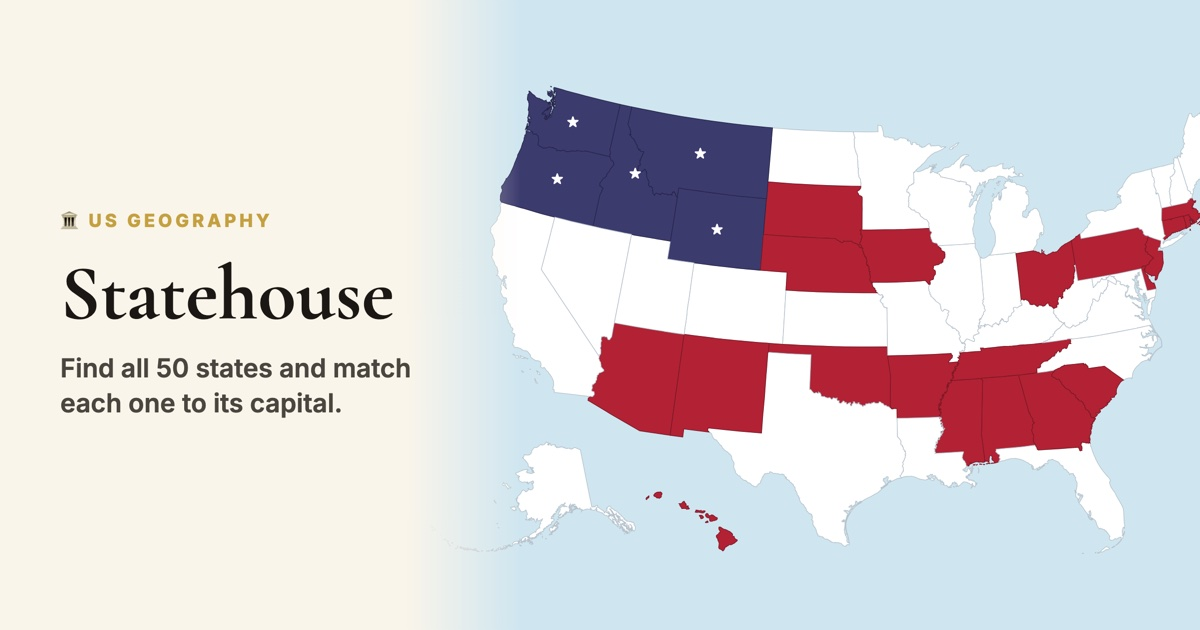
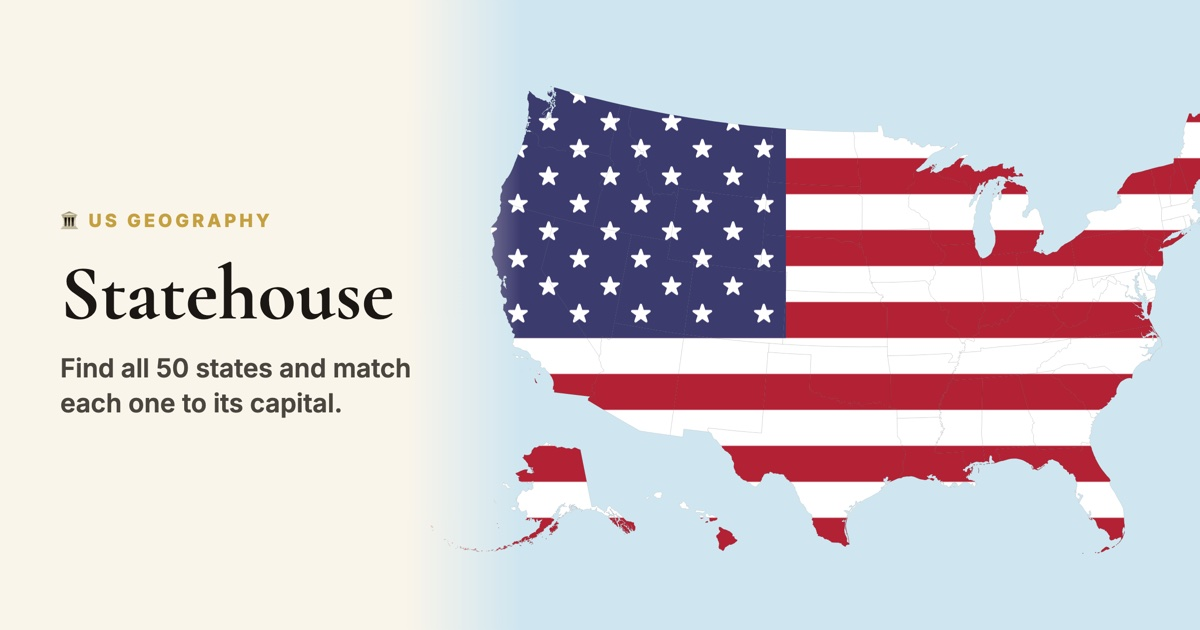
Statehouse: real US flag overlay + steady map
Replace the per-state colour blocks with an actual flag: 13 straight
stripes and a 50-star blue canton drawn once as a full-map SVG pattern.
Found states are filled with it, so each reveals its slice of the flag
and completing all 50 fills the map into the Stars and Stripes (clipped
to the US shape; AK/HI sit on the continuing lower stripes).

Also give the feedback bar a fixed height so a short or long message no
longer reflows the column and rescales the map between questions.
Refreshed the homepage tile and OG image to the real flag.

diff --git a/games/statehouse/index.html b/games/statehouse/index.html
@@ -46,7 +46,7 @@
     body.game-fit #gameScreen .map-container { flex: 1 1 auto; min-height: 0; display: flex; align-items: center; justify-content: center; }
     body.game-fit #gameScreen .map-container svg { width: auto; height: auto; max-width: 100%; max-height: 100%; }
     body.game-fit .prompt-box { margin-bottom: .5rem; }
-    body.game-fit .feedback-bar { min-height: 1.8rem; margin-bottom: .4rem; }
+    body.game-fit .feedback-bar { height: 2.7rem; margin-bottom: .4rem; }
     body.game-fit .btn-row { margin-top: .6rem; }
 
     .map-header { margin-bottom: 1rem; }
@@ -100,7 +100,11 @@
     .score-num.correct { color: var(--green); }
     .score-num.wrong { color: var(--red); }
 
-    .feedback-bar { min-height: 2.4rem; margin-bottom: 0.75rem; font-size: 1.05rem; font-weight: 600; padding: 0.3rem 0; }
+    /* Fixed height so a short or long message never reflows the column (which would
+       rescale the map between questions). Text is centered and clamped to two lines. */
+    .feedback-bar { height: 3rem; margin-bottom: 0.6rem; font-size: 1.02rem; font-weight: 600;
+      display: flex; align-items: center; justify-content: center; text-align: center; overflow: hidden; }
+    .feedback-bar span { display: -webkit-box; -webkit-line-clamp: 2; -webkit-box-orient: vertical; overflow: hidden; line-height: 1.25; }
     .feedback-correct { color: var(--green); }
     .feedback-wrong { color: var(--red); }
 
@@ -238,6 +242,7 @@ const MODE_ORDER = ['states', 'capitals'];
 
 function buildUSMap(interactive) {
   let svg = `<svg viewBox="${US.viewBox}" xmlns="http://www.w3.org/2000/svg" class="us-svg">`;
+  if (interactive) svg += flagDefs();
   for (const [id, d] of Object.entries(US.paths)) {
     svg += interactive
       ? `<path id="${id}" class="state" d="${d}"></path>`
@@ -258,42 +263,50 @@ let waitingForNext = false, advanceTimer = null, modeJustFinished = false;
 // mapscore: more correct wins, ties broken by fewer wrong (see streak-rail unit).
 function encodeScore(correct, wrong) { return correct * 1000 + (999 - Math.min(wrong, 999)); }
 
-// ---- found-state colours: paint each found state so a completed 50-state map
-// reads like the US flag - a blue canton with stars over the top-left states, and
-// red/white stripes elsewhere, keyed off each state's rough position on the map. ----
-const FLAG_W = 960, FLAG_H = 600;
-const CENTER = {};   // rough bbox centre per state, in map coords
-for (const [sid, sd] of Object.entries(US.paths)) {
-  const nums = sd.match(/-?\d+(?:\.\d+)?/g).map(Number);
+// ---- The flag overlay: an actual US flag (13 straight stripes + a blue canton of
+// 50 stars) drawn once as a full-map SVG pattern. A found state is filled with that
+// pattern, so it reveals exactly the slice of flag it covers - find all 50 and the
+// map fills into the Stars and Stripes. The flag is fit to the continental bounding
+// box (AK/HI insets fall on the continuing lower stripes). ----
+const CONT = (function () {   // continental bbox, excluding the AK/HI insets
   let minX = 1e9, minY = 1e9, maxX = -1e9, maxY = -1e9;
-  for (let i = 0; i + 1 < nums.length; i += 2) {
-    const x = nums[i], y = nums[i + 1];
-    if (x < minX) minX = x; if (x > maxX) maxX = x; if (y < minY) minY = y; if (y > maxY) maxY = y;
+  for (const [id, d] of Object.entries(US.paths)) {
+    if (id === 'AK' || id === 'HI') continue;
+    const n = d.match(/-?\d+(?:\.\d+)?/g).map(Number);
+    for (let i = 0; i + 1 < n.length; i += 2) {
+      const x = n[i], y = n[i + 1];
+      if (x < minX) minX = x; if (x > maxX) maxX = x; if (y < minY) minY = y; if (y > maxY) maxY = y;
+    }
   }
-  CENTER[sid] = { x: (minX + maxX) / 2, y: (minY + maxY) / 2 };
+  return { minX, minY, maxX, maxY };
+})();
+function flagDefs() {
+  const vb = US.viewBox.split(/\s+/).map(Number);        // [x, y, w, h]
+  const W = vb[0] + vb[2], H = vb[1] + vb[3];
+  const { minX, minY, maxX, maxY } = CONT;
+  const stripeH = (maxY - minY) / 13;
+  const cantonR = minX + 0.40 * (maxX - minX), cantonB = minY + 7 * stripeH;
+  const f = n => (+n).toFixed(1);
+  let s = `<rect x="0" y="0" width="${f(W)}" height="${f(H)}" fill="#B22234"/>`;   // red base
+  for (let i = 1; i < 13; i += 2) s += `<rect x="0" y="${f(minY + i * stripeH)}" width="${f(W)}" height="${f(stripeH)}" fill="#fff"/>`;
+  s += `<rect x="0" y="0" width="${f(cantonR)}" height="${f(cantonB)}" fill="#3C3B6E"/>`;
+  // 50 stars: 9 staggered rows (6,5,6,5,6,5,6,5,6), inset within the canton
+  const gL = cantonR * 0.10, gR = cantonR * 0.94, gT = cantonB * 0.11, gB = cantonB * 0.91;
+  const sz = Math.min((gB - gT) / 9, (gR - gL) / 6) * 0.92;
+  for (let r = 0; r < 9; r++) {
+    const six = r % 2 === 0, cnt = six ? 6 : 5, y = gT + r * (gB - gT) / 8;
+    for (let k = 0; k < cnt; k++) {
+      const x = six ? gL + k * (gR - gL) / 5 : gL + (gR - gL) / 10 + k * (gR - gL) / 5;
+      s += `<text x="${f(x)}" y="${f(y)}" text-anchor="middle" dominant-baseline="central" font-size="${f(sz)}" fill="#fff">★</text>`;
+    }
+  }
+  return `<defs><pattern id="usflag" patternUnits="userSpaceOnUse" x="0" y="0" width="${f(W)}" height="${f(H)}">${s}</pattern></defs>`;
 }
-function flagColor(id) {
-  const p = CENTER[id] || { x: FLAG_W / 2, y: FLAG_H / 2 };
-  if (p.x < FLAG_W * 0.40 && p.y < FLAG_H * 0.42) return { fill: '#3C3B6E', stroke: '#26264a', star: true };   // blue canton
-  return (Math.floor(p.y / (FLAG_H / 7)) % 2 === 0)
-    ? { fill: '#B22234', stroke: '#7c1826' }     // red stripe
-    : { fill: '#ffffff', stroke: '#b7c3cc' };    // white stripe
-}
-function addStar(id) {
-  const svg = document.querySelector('#mapContainer svg'), p = CENTER[id];
-  if (!svg || !p) return;
-  const s = document.createElementNS('http://www.w3.org/2000/svg', 'text');
-  s.setAttribute('x', p.x); s.setAttribute('y', p.y + 0.5);
-  s.setAttribute('text-anchor', 'middle'); s.setAttribute('dominant-baseline', 'central');
-  s.setAttribute('font-size', '14'); s.setAttribute('fill', '#fff'); s.setAttribute('pointer-events', 'none');
-  s.textContent = '★';
-  svg.appendChild(s);
-}
-function paintCompleted(el, id) {
+function paintCompleted(el) {
   if (!el) return;
-  const c = flagColor(id);
-  el.style.fill = c.fill; el.style.stroke = c.stroke; el.style.strokeWidth = '0.7';
-  if (c.star) addStar(id);
+  el.style.fill = 'url(#usflag)';
+  el.style.stroke = 'rgba(30,25,15,0.20)';
+  el.style.strokeWidth = '0.4';
 }
 function setTitle(el, name) {
   if (!el) return;
@@ -480,7 +493,7 @@ function handleStateClick(id) {
     if (correctEl) {
       correctEl.classList.add('correct-flash', 'completed');
       setTitle(correctEl, NAME(currentState));
-      paintCompleted(correctEl, currentState);
+      paintCompleted(correctEl);
       const fid = currentState;
       setTimeout(() => { const e = document.getElementById(fid); if (e) e.classList.remove('correct-flash'); }, 450);
     }
